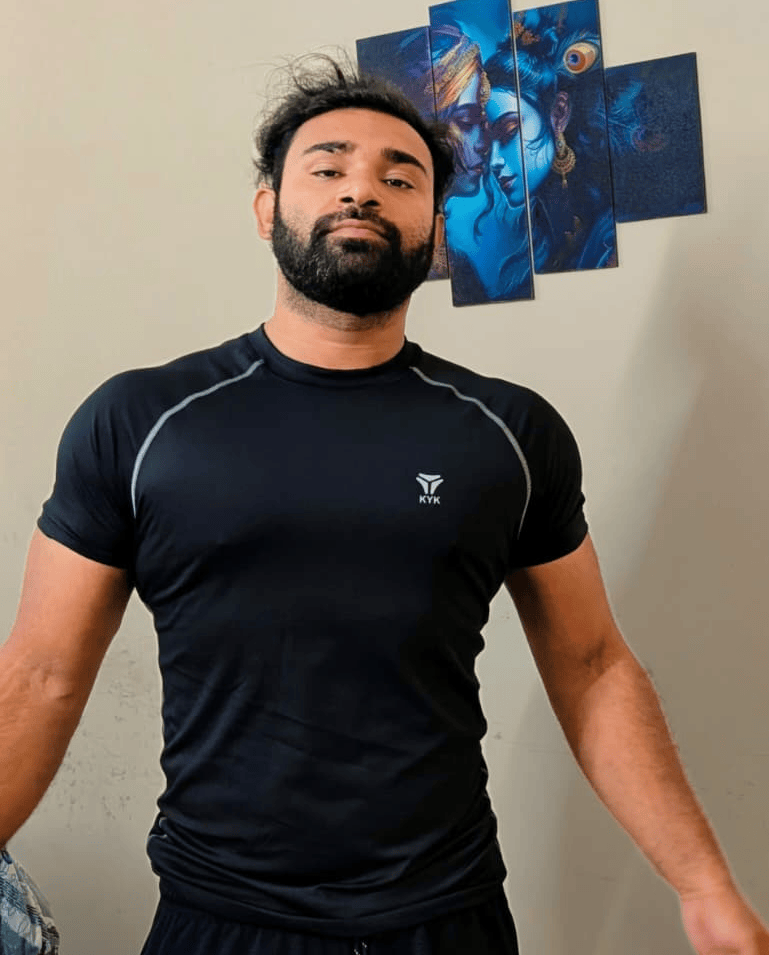
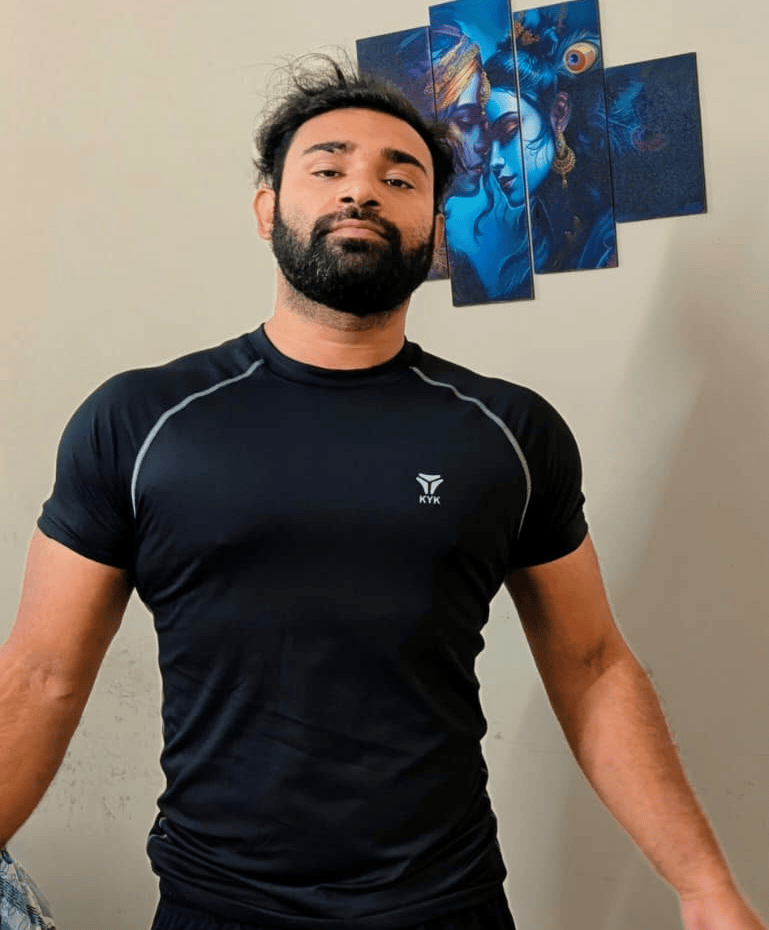
Add the relatedProducts and ShopContext

diff --git a/src/pages/Cart.jsx b/src/pages/Cart.jsx
@@ -1,14 +1,60 @@
-import React, { useContext, useState } from 'react'
+import React, { useContext, useEffect, useState } from 'react'
 import { ShopContext } from '../context/ShopContext'
+import Title from '../components/Title';
+import { assets } from '../assets/assets';
 
 const Cart = () => {
 
-  const { products, currency , cartItems} = useContext(ShopContext);
-  const [cartData,setCartData] = useState([])
+  const { products, currency, cartItems, updateQuantity } = useContext(ShopContext);
+  const [cartData, setCartData] = useState([]);
+
+  useEffect(() => {
+
+    const tempData = [];
+
+    for (const items in cartItems) {
+      for (const item in cartItems[items]) {
+        if (cartItems[items][item] > 0) {
+          tempData.push({
+            _id: items,
+            size: item,
+            quantity: cartItems[items][item]
+          })
+        }
+      }
+    }
+    setCartData(tempData);
+  }, [cartItems])
 
   return (
-    <div>
+    <div className='border-t pt-14'>
+      <div className='text-2xl mb-5'>
+        <Title text1={'Your'} text2={'Cart'} />
+      </div>
+      <div>
+        {
+          cartData.map((item, index) => {
+            const productData = products.find((product) => product._id === item._id);
+            return (
+              <div key={index} className='py-4 border-t border-b text-gray-700 grid grid-cols-[4fr_0.5fr_0.5fr] sm:grid-cols-[4fr_2fr_0.5fr] items-center gap-4'>
+                <div className='flex gap-6 items-start'>
+                  <img className='w-16 sm:w-20' src={productData.image[0]} alt="" />
+                  <div>
+                    <p className='text-xs sm:text-lg font-medium'>{productData.name}</p>
+                    <div className='flex items-center py-3 px-5 gap-3'>
+                      <p className='font-medium'>{currency}{productData.price}</p>
+                      <p className='px-2 sm:py-0.5 sm:px-3 border bg-slate-50' >{item.size}</p>
+                    </div>
+                  </div>
+                </div>
+                  <input onClick={(e)=>e.target.value === '' || e.target.value === '0' ? null : updateQuantity(item._id,item.size,Number(e.target.value))} className='border max-w-10 sm:max-w-15 px-1 sm:px-2 py-1' type='number' min={1} defaultValue={item.quantity} />
+                  <img  className='w-4 mr-4 cursor-pointer sm:w-5' src={assets.bin_icon} alt="" />
+              </div>
+            )
 
+          })
+        }
+      </div>
     </div>
   )
 }

diff --git a/src/context/ShopContext.jsx b/src/context/ShopContext.jsx
@@ -12,10 +12,17 @@ const ShopContextProvider = (props) => {
     const [showSearch, setShowSearch] = useState(false);
     const [cartItems, setCartItems] = useState({});
 
+    const updateQuantity = async (itemId,size,quantity)=>{
+    const cartData = structuredClone(cartItems);
+    cartData[itemId][size]= quantity;
+    setCartItems(cartData)
+}
+
     const addToCart = async (itemId, size) => {
 
         if (!size) {
-            toast.error("Please Select Size")
+            toast.error("Please Select Size");
+            return;
         }
 
         let cartData = structuredClone(cartItems);
@@ -46,25 +53,24 @@ const ShopContextProvider = (props) => {
                         totalCount += cartItems[items][item];
                     }
                 } catch (error) {
-
                 }
             }
         }
         return totalCount;
     }
+const value = {
+    products, currency, delivery_fee,
+    search, setSearch, showSearch, setShowSearch,
+    cartItems, addToCart,
+    getCartCount,
+    updateQuantity
+}
 
-    const value = {
-        products, currency, delivery_fee,
-        search, setSearch, showSearch, setShowSearch,
-        cartItems, addToCart,
-        getCartCount
-    }
-
-    return (
-        <ShopContext.Provider value={value}>
-            {props.children}
-        </ShopContext.Provider>
-    )
+return (
+    <ShopContext.Provider value={value}>
+        {props.children}
+    </ShopContext.Provider>
+)
 }
 
 export default ShopContextProvider;

diff --git a/src/components/RelatedProducts.jsx b/src/components/RelatedProducts.jsx
@@ -19,7 +19,7 @@ const RelatedProducts = ({ currentProductId, category, subCategory }) => {
             setRelated(productsCopy.slice(0, 5));
         }
     }, [products, category, subCategory,currentProductId])
-    return (
+    return (        
         <div className='mt-24'>
             <div className='text-3xl text:center py-2'>
                 <Title text1={'Related'} text2={'Products'} />
